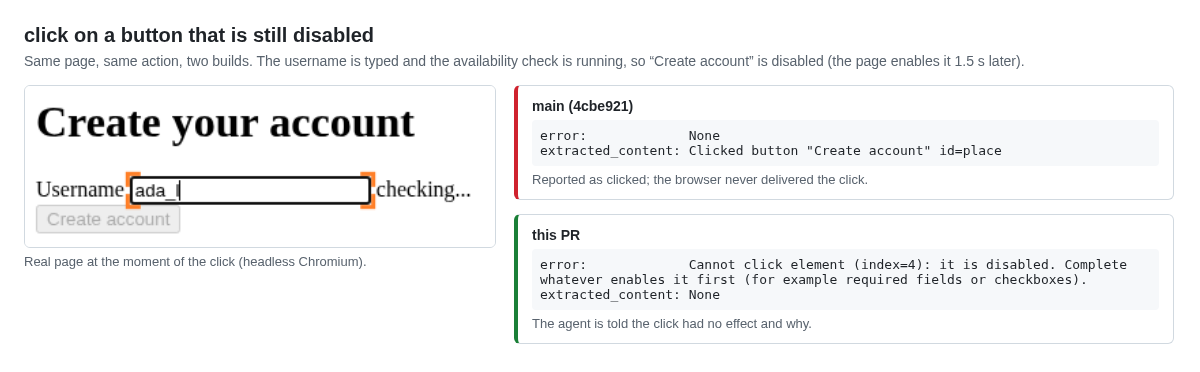
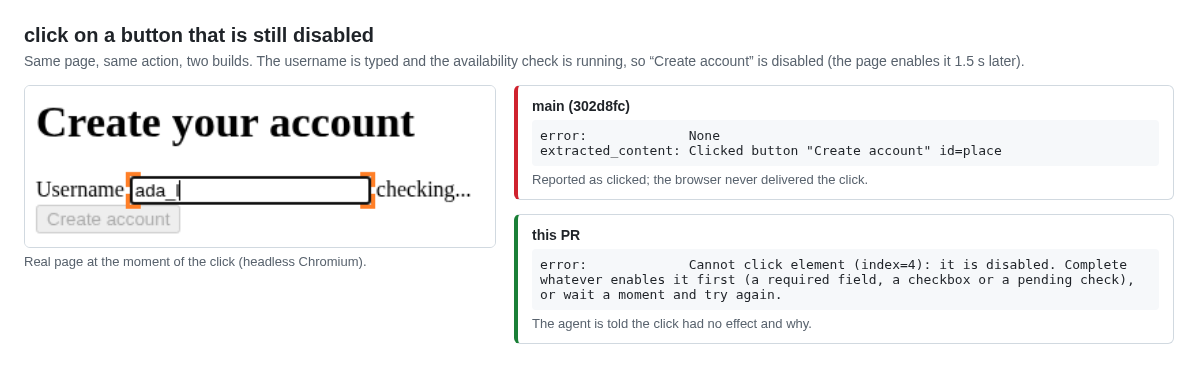
Refresh demo and repro output after rebase and message change

Changed region(s): [[0.4625, 0.7392, 0.9558, 0.828], [0.4625, 0.2661, 0.5242, 0.2957]]

diff --git a/README.md b/README.md
@@ -1,7 +1,7 @@
 # Evidence: `click` reports success on disabled form controls
 
 Supporting material for browser-use issue #5964 and PR #5965 "fix(click): report clicks on disabled form controls as
-errors". Base: browser-use `main` at 4cbe921 (0.13.10). Fix: branch `fix/click-disabled-elements`.
+errors". Base: browser-use `main` at 302d8fc (0.13.10; the branch was rebased from 4cbe921). Fix: branch `fix/click-disabled-elements`.
 
 ## Summary
 
@@ -10,7 +10,7 @@ errors". Base: browser-use `main` at 4cbe921 (0.13.10). Fix: branch `fix/click-d
 | `click` on `<button disabled>` with a click listener ([repro](repro/repro_disabled_click.py)) | `error=None`, `Clicked button "Place order"`, handler did not run | `error="Cannot click element (index=3): it is disabled. ..."` |
 | Same with a disabled Vue 3 (`@click`) and React 18 (`onClick`) button ([probe](probes/probe_frameworks.py)) | reported as clicked | error |
 | New tests `tests/ci/test_click_disabled_element.py` (9) | 5 fail (`error=None`; the multi_act test runs all 3 queued actions) | 9 pass |
-| Full `tests/ci` | | 1212 passed, 35 skipped |
+| Full `tests/ci` | | 1222 passed, 39 skipped |
 | Agent runs, requirement visible on the page (36) | 18/18 orders | 18/18 orders, same number of actions |
 | Agent runs, button enabled 1.5 s after typing (24) | 10/12 orders; the click on the still-disabled button returns `Clicked ...` | 11/12 orders; 7/12 runs got the new error |
 
